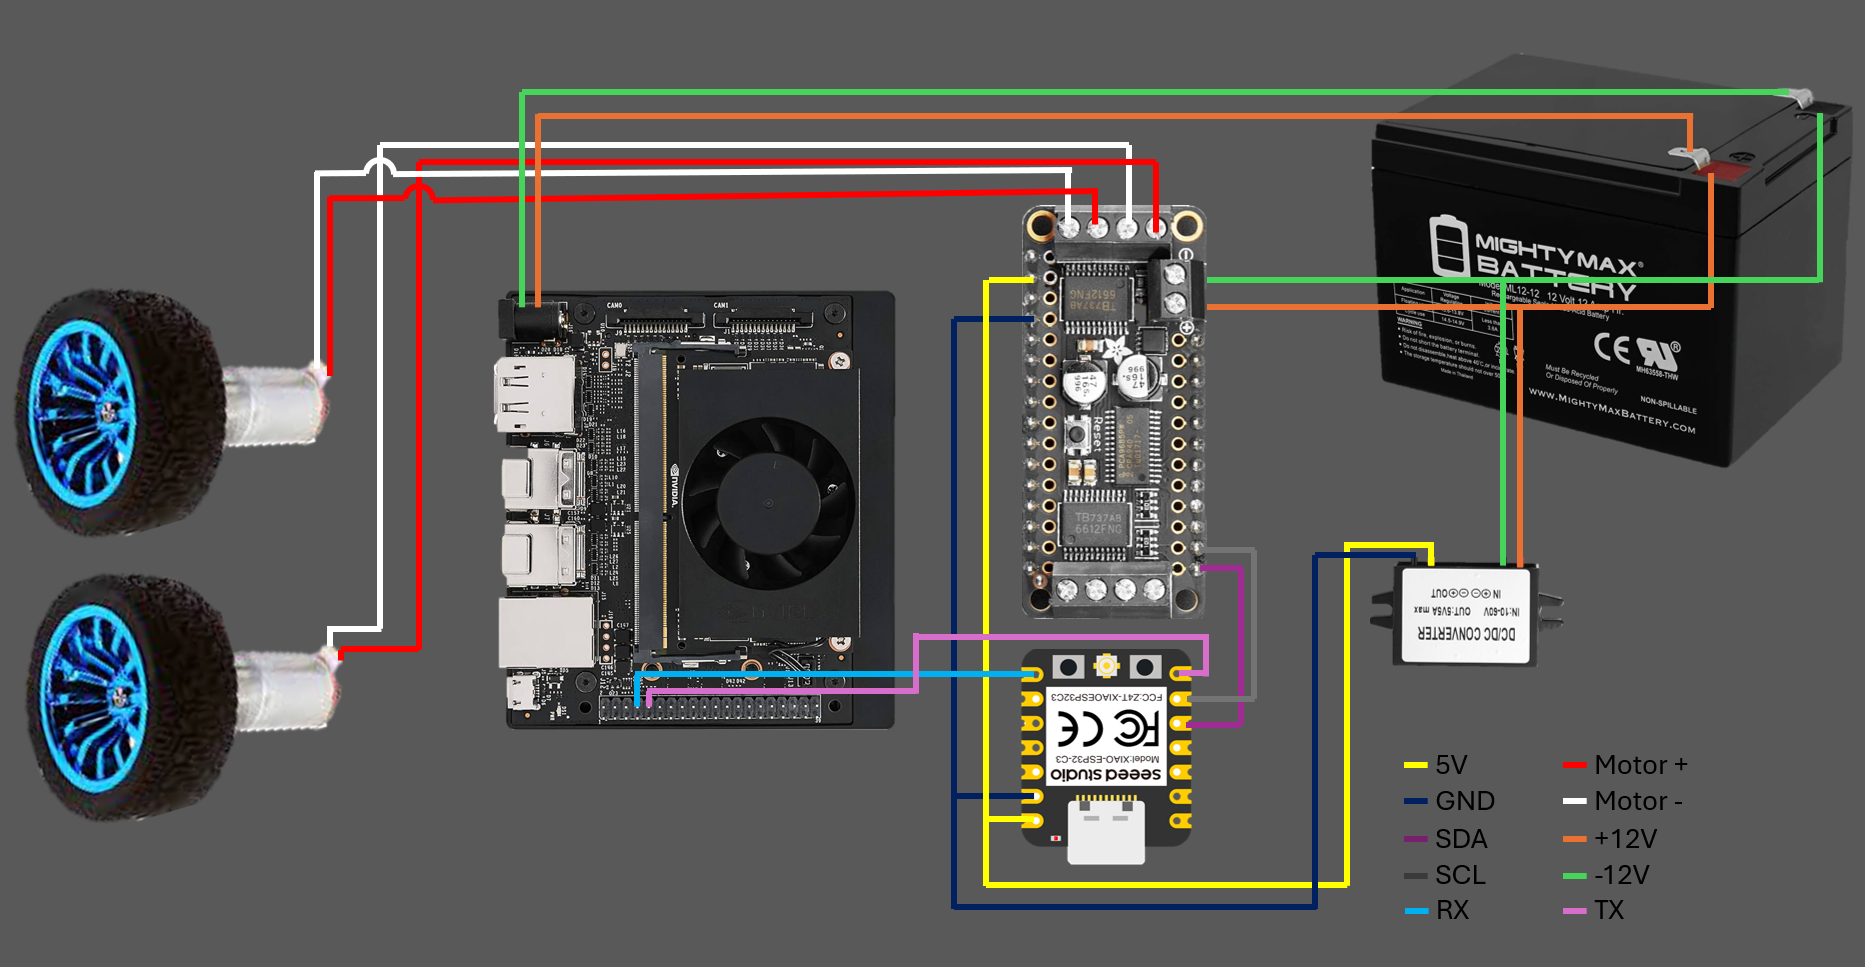
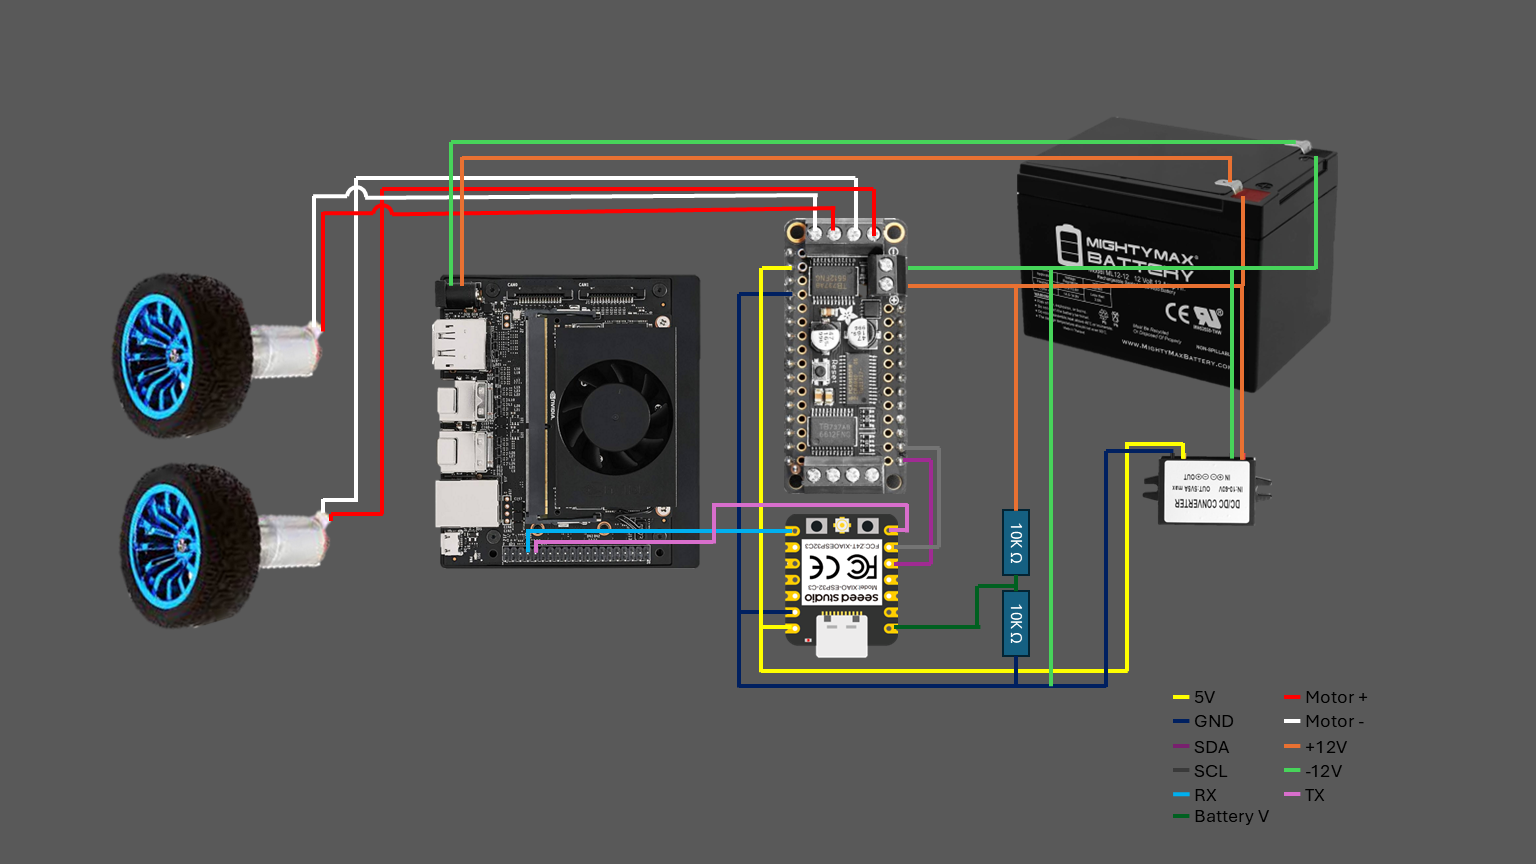
Update README to reflect normalized joystick input range and improve clarity; update binary diagrams

diff --git a/README.md b/README.md
@@ -58,7 +58,7 @@ This project is designed with future ROS 2 integration in mind, allowing the ESP
 - Joystick axis data is sent directly to the ESP32 via serial over USB.
 - The ESP32 applies differential drive logic and controls the motors.
 - It also performs battery voltage monitoring using ADC, smoothing with a moving average, and alerts via serial when battery is low.
-- Communication uses a simple `"X Y\n"` format for motor speeds from -255 to 255.
+- Communication uses a simple `"X Y\n"` ... from -1.0 to 1.0 (normalized float).
 
 ### 🚀 Future ROS 2 Upgrade Path
 
@@ -99,10 +99,7 @@ Additional plans include:
 
 ```ini
 lib_deps =
-  adafruit/Adafruit BusIO
-  adafruit/Adafruit PWM Servo Driver Library
   adafruit/Adafruit Motor Shield V2 Library
-  SPI
 ```
 
 
@@ -125,18 +122,18 @@ pip install pygame pyserial
 ### 1. Run on ESP32
 
 Build and upload `main.cpp` using PlatformIO. It will:
-- Initialize the FeatherWing
-- Wait for serial input of joystick axis data (formatted as `"X Y\n"`)
+- Initialize the FeatherWing motor driver
+- Monitor battery voltage with ADC and filter readings using a moving average
+- Print low-voltage warnings (< 11.0 V) to the serial console
+- Wait for serial input of joystick axis data (formatted as `"X Y\n"`, with normalized values from `-1.0` to `1.0`)
 - Apply differential drive logic to control two DC motors
-
 
 ### 2. Run on Jetson or PC
 
 Use `joystick_to_serial.py` to:
 - Auto-detect ESP32 serial port
 - Read left joystick axis input
-- Convert axis to X/Y values in `-255 to 255` range
-- Send commands like `"120 -100\n"` over serial
+- Send commands like `"0.8 -0.5\n"` over serial
 
 
 > Note: On Jetson or Linux, you may need to install `joystick` and set:
@@ -156,7 +153,7 @@ right_speed = y - x
 
 - `x` controls turning
 - `y` controls forward/backward
-- Values are clamped to `-255 to 255`
+- Values are constrained to `[-1.0, 1.0]` and mapped to PWM duty (0–255).
 
 ---
 
@@ -177,6 +174,12 @@ Key connections:
 - FeatherWing VMOT → 6–12V motor supply
 - Add 4.7k–10kΩ pull-up resistors to SDA/SCL if needed for I²C stability
 - ESP32 TX/RX (D6/D7) → Jetson GPIO RX/TX (8/10)
+- **Battery Voltage Sense**: A voltage divider (e.g., 43kΩ + 10kΩ) connected between motor supply (+12V) and an analog pin (e.g., A0/GPIO2) to monitor battery voltage
+- **GND Jumper**: Ensure the battery/motor GND and ESP32 GND are connected (a common ground is required for stable voltage measurement and signal logic)
+
+> ⚠ Note: Without a shared GND between motor power and ESP32, voltage readings will be inaccurate and communication may fail.
+
+
 
 ---
 
